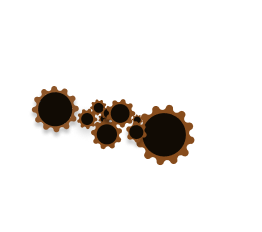
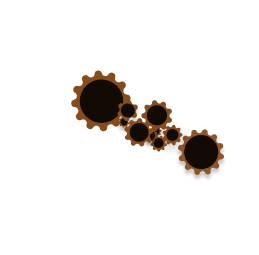
trying to figure out what is broken within Authorizing my user and displaying the inputs to create a post when logged in as the admin. It was working great in Postman but my front end is not displaying the inputs to create a post for admin once logged in. Long story short. Debugging within TheAuthor

Changed region(s): [[0.1236, 0.2716, 0.8649, 0.7241]]

diff --git a/src/App.jsx b/src/App.jsx
@@ -5,7 +5,7 @@ import "./index.css";
 function App() {
   return (
     <div className="w-full h-full bg-[#F1E7D0]">
-      <header className="flex flex-col items-center bg-gradient-to-b from-[#E8D7B0] bg-opacity-25 p-5">
+      <header className="flex flex-col items-center bg-[#E8D7B0] bg-gradient-to-b from-[#F1E7D0] drop-shadow-grey-500/50 p-5">
         <nav className="bg-gradient-to-t-from[#E8D7B0]">
           <NavLink to="/">
             <img
@@ -22,47 +22,54 @@ function App() {
           <NavLink to="/books">- The Books -</NavLink>
         </nav>
       </header>
-      <main>
+
+      <main className="bg-gradient-to-b from-[#E8D7B0] bg-opacity-25 pb-20">
         <Outlet />
       </main>
-      <footer className=" bg-gradient-to-t from-[#E8D7B0] pb-20 pt-20">
-        <div className="flex justify-between pt-5 pl-5">
+
+      <footer className="bg-[#E8D7B0] bg-gradient-to-t from-[#F1E7D0] bg-gradient-to-b from-[#F1E7D0] drop-shadow-grey-500/50 pt-20">
+        <div className="flex justify-between w-screen items-start pl-5 pr-5">
           <div>
-            <p>Find Kristin Baker elsewhere:</p>
-            <nav className="flex w-2/4 pt-5">
+            <p className="text-sm">Find Kristin Baker elsewhere:</p>
+            <nav className="flex w-2/4">
               <NavLink
-                className="p-5"
+                className="w-2/4 pb-5 pt-5 pr-5"
                 to="https://www.instagram.com/piratekristin/"
               >
                 <img src="/instagram-icon.png" alt="instagram icon"></img>
               </NavLink>
               <NavLink
-                className="p-5"
+                className="w-2/4 pb-5 pt-5 pl-5"
                 to="https://www.facebook.com/search/top?q=fantasy%20and%20steampunk%20ya%20author%20kristin%20baker"
               >
                 <img src="/facebook-icon.png" alt="facebook icon"></img>
               </NavLink>
             </nav>
           </div>
-          <section className="flex flex-col justify-evenly">
+          <section className="flex flex-col justify-evenly text-xs">
             <p className="">Credit for Icons:</p>
-            <div className="pr-5 pt-5">
+            <div>
               <p>Cat in logo by Iconduck on figma</p>
             </div>
           </section>
         </div>
 
-        <div className="flex justify-between items-center w-screen h-3/4">
+        <div className="flex items-end justify-between w-screen h-3/4">
           {" "}
           <img
-            src="/leftGears.png"
-            alt="image of gears"
-            className="w-1/20 h-1/5"
+            src="/smallMushImage.png"
+            alt="small image of mushrooms"
+            className="w-1/20 h-20 pt-12 pl-5"
           />
           <img
-            src="/rightGears.png"
-            alt="image of gears"
-            className="w-1/20 h-1/5"
+            src="/groupOfMushies.png"
+            alt="image of three mushrooms"
+            className=" h-40 pt-12"
+          />
+          <img
+            src="/smallMushImage.png"
+            alt="small image of mushrooms"
+            className="w-1/20 h-20 pt-12 pr-5"
           />
         </div>
       </footer>

diff --git a/src/pages/TheAuthor.jsx b/src/pages/TheAuthor.jsx
@@ -20,12 +20,14 @@ export default function TheAuthor() {
         body: newPost.body,
       };
 
+      const userId = localStorage.getItem("userId");
+
       const response = await fetch("http://localhost:4202/api/user/posts", {
         method: "POST", // Use POST for sending data
         headers: {
           "Content-Type": "application/json",
           Accept: "application/json",
-          Authorization: "FhTftSMTLWDH800000T",
+          ...(userId && { Authorization: `Bearer ${userId}` }), // Include authorization if userId exists
         },
         body: JSON.stringify({ postData: payload }),
       });
@@ -72,17 +74,35 @@ export default function TheAuthor() {
   };
 
   const fetchMyPosts = useCallback(() => {
+    // fetch("http://localhost:4202/api/posts", {
+    //   method: "GET", // Use GET for receiving data
+    //   headers: {
+    //     "Content-Type": "application/json",
+    //     Accept: "application/json",
+    //   },
+    // })
+    //   .then((response) => response.json())
+    //   .then((data) => {
+    //     setIsLoggedIn(!!data.userId);
+    // const posts = data.posts;
+    // console.log("posts: ", posts);
+    // if (Array.isArray(posts)) {
+    //   setPostData(posts);
+    //     }
+    //   })
+    const userId = localStorage.getItem("userId");
+
     fetch("http://localhost:4202/api/posts", {
       method: "GET", // Use GET for receiving data
       headers: {
         "Content-Type": "application/json",
         Accept: "application/json",
+        ...(userId && { Authorization: `Bearer ${userId}` }), // Include authorization if userId exists
       },
     })
       .then((response) => response.json())
       .then((data) => {
-        //create a statement within response to see if logged in. canCreatePosts && render createPosts only
-        setIsLoggedIn(!!data.userId);
+        setIsLoggedIn(!!data.userId); // Update isLoggedIn based on response
         const posts = data.posts;
         console.log("posts: ", posts);
         if (Array.isArray(posts)) {
@@ -104,8 +124,6 @@ export default function TheAuthor() {
   useEffect(() => {
     fetchMyPosts();
   }, [fetchMyPosts]);
-
-  // console.log("authorData: ", authorData)
 
   return (
     <div className="p-5">

diff --git a/server/app.js b/server/app.js
@@ -3,7 +3,7 @@ import cors from "cors";
 import viteExpress from "vite-express";
 import session from "express-session";
 
-import { Post, User } from "./src/models.js";
+import { Post, User } from "./models.js";
 
 const app = express();
 const PORT = 4202;
@@ -30,37 +30,30 @@ function loginRequired(req, res, next) {
   }
 }
 
-app.use((req, res, next) => {
-  if (req.path === "/api/user/posts" && req.method === "POST") {
-    const auth = req.headers.authorization;
-    if (auth === "FhTftSMTLWDH800000T") {
-      next();
-    } else {
-      res.status(403).send("Not Authorized");
-    }
-  }
-});
-
 app.get("/", (req, res) => {
   res.send("OK");
 });
 
 app.post("/api/auth", async (req, res) => {
-  const { email, password } = req.body;
-  const user = await User.findOne({ where: { email: email } });
+  try {
+    const { email, password } = req.body;
+    const user = await User.findOne({ where: { email: email } });
 
-  if (user && user.password === password) {
-    req.session.userId = user.userId;
-    //Store userId in session
-    res.json({ success: true });
-  } else {
-    res.json({ success: false });
+    if (user && user.password === password) {
+      req.session.userId = user.userId;
+      //Store userId in session
+      res.json({ success: true });
+    } else {
+      res.json({ success: false });
+    }
+  } catch (e) {
+    res.status(500).json({ error: "Server Error" });
   }
 });
 
 // Note the `loginRequired` argument passed to the routes below!
 
-app.post("/api/logout", loginRequired, (req, res) => {
+app.post("/api/logout", (req, res) => {
   req.session.destroy();
   res.json({ success: true });
 });
@@ -88,7 +81,7 @@ app.delete("/api/posts/:postId", loginRequired, async (req, res) => {
   }
 });
 
-app.get("/api/posts", loginRequired, async (req, res) => {
+app.get("/api/posts", async (req, res) => {
   const posts = await Post.findAll();
   console.log("Hit");
   return res.json({ posts });

diff --git a/server/seed.js b/server/seed.js
@@ -8,8 +8,10 @@ console.log("Seeding database...");
 
 const userData = [
   {
-    username: "Kristin",
+    email: "piratekristin@hotmail.com",
     password: "password",
+    firstName: "Kristin",
+    lastName: "Baker",
   },
 ];
 
@@ -23,10 +25,12 @@ const postData = [
 
 const usersInDB = await Promise.all(
   userData.map((user) => {
-    const { username, password } = user;
+    const { email, password, firstName, lastName } = user;
     const newUser = User.create({
-      username,
+      email,
       password,
+      firstName,
+      lastName,
     });
 
     return newUser;

diff --git a/src/components/LoginForm.jsx b/src/components/LoginForm.jsx
@@ -18,6 +18,7 @@ export default function LoginForm({ onLogin }) {
         name="email"
         id="email"
         type="text"
+        autoComplete="email"
         required
         onChange={(e) => setEmailValue(e.target.value)}
       />
@@ -26,6 +27,7 @@ export default function LoginForm({ onLogin }) {
         name="password"
         id="password"
         type="password"
+        autoComplete="password"
         required
         onChange={(e) => setPasswordValue(e.target.value)}
       />

diff --git a/src/main.jsx b/src/main.jsx
@@ -22,8 +22,8 @@ const router = createBrowserRouter(
       <Route path="/" element={<Home />} />
       <Route path="/author" element={<TheAuthor />} />
       <Route path="/books" element={<TheBooks />} />
-      <Route path="/api/auth" element={<Admin />} />
-      {/* <Route path="/api/auth" element={<Admin />} /> */}
+      <Route path="/auth" element={<Admin />} />
+      <Route path="/author/user/posts" element={<TheAuthor />} />
     </Route>
   )
 );

diff --git a/src/pages/Admin.jsx b/src/pages/Admin.jsx
@@ -8,11 +8,12 @@ export default function Admin() {
 
   const handleLogin = async (event, formData) => {
     event.preventDefault();
-
     const res = await axios.post("/api/auth", formData);
 
     if (res.data.success) {
-      navigate("/home");
+      localStorage.setItem("userId", res.data.userId);
+
+      navigate("/author/user/posts");
     }
   };
 

diff --git a/vite.config.js b/vite.config.js
@@ -4,9 +4,9 @@ import react from "@vitejs/plugin-react";
 // https://vitejs.dev/config/
 export default defineConfig({
   plugins: [react()],
-  // server: {
-  //   proxy: {
-  //     "/api": "http://localhost:4202",
-  //   },
-  // },
+  server: {
+    proxy: {
+      "/api": "http://localhost:4202",
+    },
+  },
 });

diff --git a/server/models.js b/server/models.js
@@ -21,6 +21,12 @@ User.init(
     password: {
       type: DataTypes.STRING,
     },
+    firstName: {
+      type: DataTypes.STRING,
+    },
+    lastName: {
+      type: DataTypes.STRING,
+    },
   },
   {
     modelName: "user",

diff --git a/src/App.css b/src/App.css
@@ -1,9 +1,9 @@
-* {
+/* * {
   border: 1px dotted blue;
   font-family: "Proza Libre", sans-serif;
   font-weight: 400;
   font-style: normal;
-}
+} */
 
 .proza-libre-extrabold {
   font-family: "Proza Libre", sans-serif;
